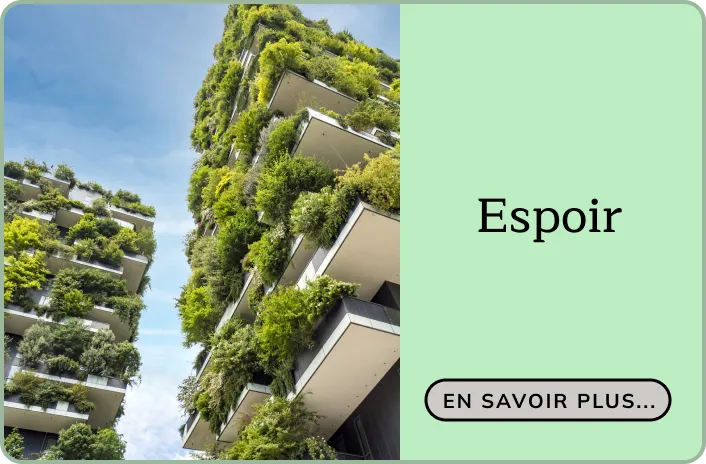
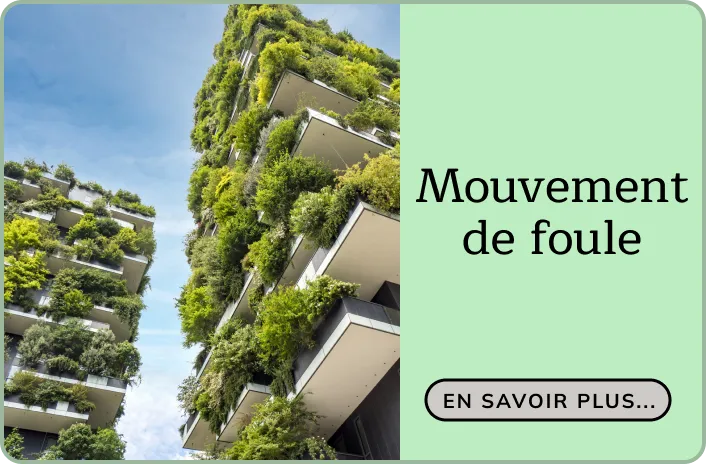
img change

Changed region(s): [[0.5921, 0.3621, 0.966, 0.5733]]

diff --git a/index.html b/index.html
@@ -26,8 +26,8 @@
                     <li><a href="richard.html">Richard III</a></li>
                     <li><a href="billie.html">Happier Than Ever</a></li>
                     <li><a href="miyazaki.html">Le chateau Ambulant</a></li>
-                    <li><a href="regret.html">Un Regret</a></li>
-                    <li><a href="espoir.html">Un Espoir</a></li>
+                    <li><a href="regret.html">La course aux likes</a></li>
+                    <li><a href="espoir.html">Mouvement de foule</a></li>
                     <li><a href="Projets.html">Autres projets</a></li>
                     <li><a href="Contacts.html">Contacts</a></li>
                     <li><a href="Glossaire.html">Glossaire</a></li>

diff --git a/temple.html b/temple.html
@@ -26,8 +26,8 @@
                     <li><a href="richard.html">Richard III</a></li>
                     <li><a href="billie.html">Happier Than Ever</a></li>
                     <li><a href="miyazaki.html">Le chateau Ambulant</a></li>
-                    <li><a href="regret.html">Un Regret</a></li>
-                    <li><a href="espoir.html">Un Espoir</a></li>
+                    <li><a href="regret.html">La course aux likes</a></li>
+                    <li><a href="espoir.html">Mouvement de foule</a></li>
                     <li><a href="Projets.html">Autres projets</a></li>
                     <li><a href="Contacts.html">Contacts</a></li>
                     <li><a href="Glossaire.html">Glossaire</a></li>
